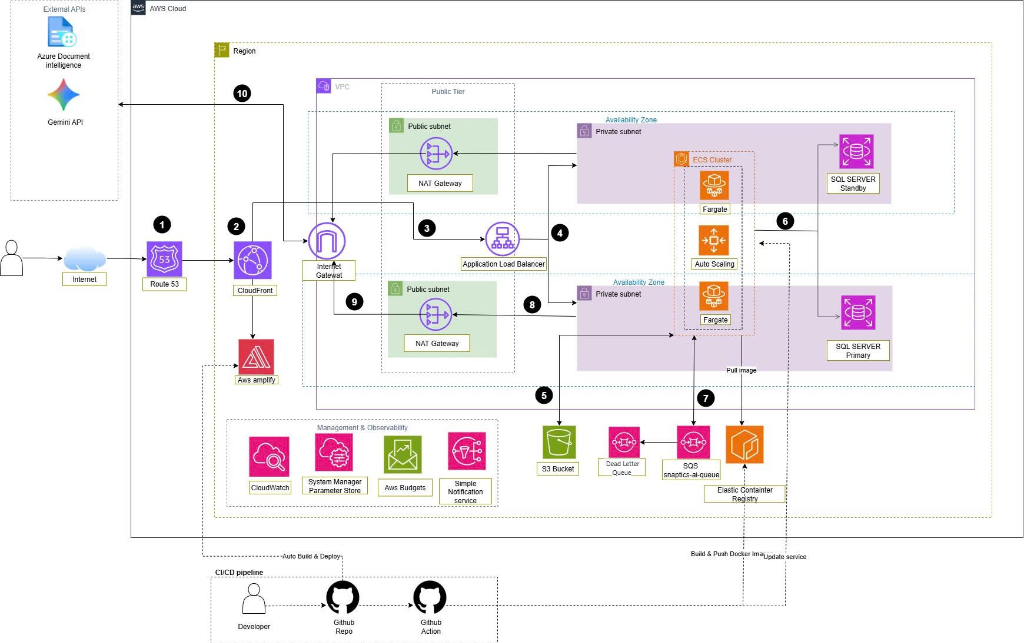
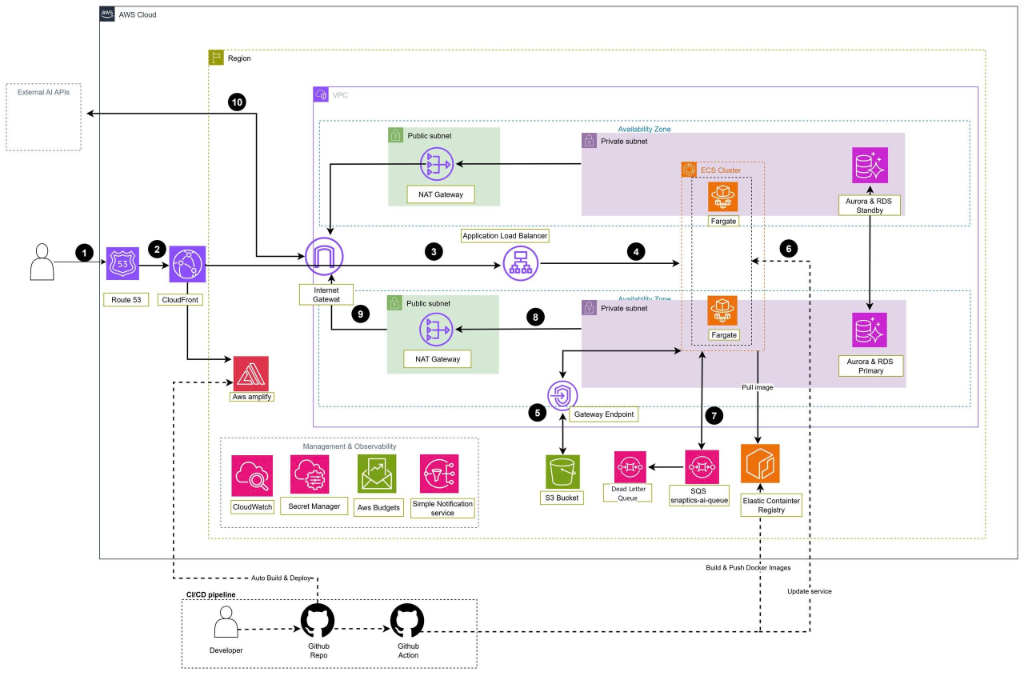
docs: update system architecture diagram, data flow, proposal and tech stack

diff --git a/content/2-Proposal/_index.md b/content/2-Proposal/_index.md
@@ -111,30 +111,28 @@ Snaptics utilizes an AWS Cloud-Native architecture combining a Single Page Appli
 | Component | Role in System |
 | :--- | :--- |
 | **Frontend** | Angular Single Page Application automatically built and deployed via AWS Amplify from GitHub. Distributed via Amazon CloudFront CDN. |
-| **DNS, CDN & Edge Protection** | Amazon Route 53 manages DNS; Amazon CloudFront acts as CDN and ingress point. AWS WAF is attached to CloudFront to inspect and filter web traffic before reaching ALB. |
-| **Networking** | Amazon VPC spanning 02 Availability Zones. Each AZ contains Public Subnets and Private Subnets. ALB and NAT Gateways reside in Public Subnets; ECS Fargate and RDS reside in Private Subnets. |
-| **Backend API** | .NET API containerized with Docker, stored on Amazon ECR, and deployed as ECS Services running Fargate Tasks in Private Subnets behind ALB. |
-| **AI Worker** | ECS Fargate Worker dequeuing messages from SQS, reading images from S3 via Gateway Endpoint, invoking Azure Document Intelligence and Gemini API via NAT Gateway, and writing results to RDS. |
-| **Database** | Amazon RDS for SQL Server managing accounts, transactions, wallets, budgets, notifications, chat history, tickets, and audit logs. Target architecture uses Multi-AZ Primary/Standby. |
-| **Receipt Storage** | Amazon S3 stores raw receipt images and processed files. Backend/Worker access S3 internally via S3 Gateway Endpoint, reducing NAT Gateway traffic. |
-| **Asynchronous Queue** | Amazon SQS buffers OCR/AI tasks; Dead Letter Queue (DLQ) captures failed messages exceeding retry limits for inspection and replay. |
-| **Scheduled Jobs** | Hangfire runner embedded in .NET Backend to schedule, trigger, and monitor periodic system background tasks. |
-| **Notifications** | In-app notifications stored in SQL Server. Amazon SNS supports operational alerts, system health notifications, and push channels. |
-| **Secrets & Security** | AWS Secrets Manager stores RDS connection strings, Gemini API keys, Azure Document Intelligence credentials, and JWT secrets. IAM Roles and Security Groups enforce least privilege. |
-| **Monitoring** | Amazon CloudWatch aggregates logs and metrics for ALB, ECS, RDS, SQS/DLQ, and application tasks; AWS Budgets monitors cost thresholds. |
-| **CI/CD Pipeline** | AWS Amplify auto-deploys Frontend. GitHub Actions builds Docker images, pushes to Amazon ECR, and updates ECS Services. |
+| **DNS, CDN & Edge Protection** | Amazon Route 53 manages DNS resolution; Amazon CloudFront acts as CDN and global entry point, forwarding API requests through the Internet Gateway to ALB. |
+| **Networking (VPC)** | Amazon VPC spanning 02 Availability Zones (AZs). Each AZ contains Public Subnets and Private Subnets. ALB and NAT Gateways reside in Public Subnets; ECS Fargate and Aurora & RDS databases reside in Private Subnets. |
+| **Backend API (ECS Cluster)** | .NET API containerized with Docker, stored on Amazon ECR, and deployed as ECS Services running Fargate Tasks across Private Subnets behind ALB. |
+| **AI Worker** | ECS Fargate Worker dequeuing messages from SQS `snaptics-ai-queue`, reading images from S3 via Gateway Endpoint, invoking External AI APIs (Azure Document Intelligence and Gemini API) via NAT Gateway, and writing results to Aurora & RDS. |
+| **Database** | **Aurora & RDS (Primary / Standby)** managing accounts, transactions, wallets, budgets, notifications, chat history, and support tickets. Configured with Multi-AZ replication between Primary (AZ 2) and Standby (AZ 1). |
+| **Receipt Storage** | Amazon S3 stores raw receipt images and processed files. Backend/Worker access S3 internally via **S3 Gateway Endpoint** within the VPC, reducing NAT Gateway transfer costs. |
+| **Asynchronous Queue** | **Amazon SQS (`snaptics-ai-queue`)** buffers OCR/AI tasks; **Dead Letter Queue (DLQ)** captures failed messages exceeding retry limits for inspection and replay. |
+| **Secrets & Security** | **AWS Secrets Manager** encrypts and stores RDS connection strings, Gemini API keys, Azure credentials, and JWT secrets. IAM Roles and Security Groups enforce least privilege. |
+| **Management & Observability** | **Amazon CloudWatch** (logs/metrics/alarms), **AWS Secrets Manager** (sensitive config), **AWS Budgets** (cost tracking), and **Simple Notification Service (SNS)** (operational alerts). |
+| **CI/CD Pipeline** | GitHub Actions triggers 3 automated paths: (1) **Auto Build & Deploy** Frontend to AWS Amplify, (2) **Build & Push Docker Images** to Elastic Container Registry (ECR), and (3) **Update Service** on ECS Cluster for Fargate to pull new images (**Pull Image**). |
 
 #### 4.3. Main Workflow Steps (Matching Architecture Diagram)
 1. User accesses the Snaptics domain; **Amazon Route 53** (1) resolves DNS to **Amazon CloudFront** (2).
-2. **CloudFront** serves the Frontend SPA hosted on **AWS Amplify**. **AWS WAF** attached to CloudFront inspects and blocks malicious traffic before API requests enter the network.
-3. API requests pass through the **Internet Gateway** to the **Application Load Balancer (ALB)** (3) in Public Subnets.
-4. **ALB** forwards API traffic to **Backend API Tasks** (4) running on **Amazon ECS Fargate** across Private Subnets in two Availability Zones.
-5. Backend reads/writes receipt images to **Amazon S3** via **S3 Gateway Endpoint** (5), avoiding public Internet data transfer.
-6. Backend and AI Worker query/update relational business data on **Amazon RDS for SQL Server** (6); target architecture syncs Primary to Standby Multi-AZ.
-7. Backend pushes OCR/AI jobs to **Amazon SQS** (`snaptics-ai-queue`) (7); AI Worker processes messages, sending failed tasks to **Dead Letter Queue (DLQ)**. ECS pulls Docker images from **Amazon ECR**.
-8. Fargate Workers in Private Subnets dispatch outbound processing calls (8).
+2. **CloudFront** serves the Frontend SPA hosted on **AWS Amplify** and forwards API requests through the **Internet Gateway**.
+3. API requests pass through the Internet Gateway to the **Application Load Balancer (ALB)** (3) in Public Subnets.
+4. **ALB** forwards API traffic to **ECS Fargate Tasks** (4) running in Private Subnets across 02 Availability Zones.
+5. Fargate Tasks read/write receipt images directly to **Amazon S3** via **S3 Gateway Endpoint** (5) in the VPC, bypassing the public Internet.
+6. Fargate Tasks read/write relational business data on **Aurora & RDS Primary / Standby** (6) synchronized across Multi-AZ.
+7. Fargate Tasks push OCR/AI jobs to **Amazon SQS (`snaptics-ai-queue`)** (7); AI Worker processes messages, sending failed tasks to **Dead Letter Queue (DLQ)**. ECS Fargate Tasks pull Docker images from **Amazon ECR**.
+8. Fargate Workers in Private Subnets dispatch outbound requests (8) to external AI services.
 9. Outbound traffic routes through **NAT Gateways** (9) in Public Subnets connected to the Internet Gateway.
-10. AI Worker invokes **Azure Document Intelligence** and **Gemini API** (10) via HTTPS; Gemini API keys and credentials are pulled securely from **AWS Secrets Manager**.
+10. Outbound traffic reaches **External AI APIs** (10) (Azure Document Intelligence & Google Gemini API); credentials are pulled securely from **AWS Secrets Manager**.
 
 #### 4.4. Overall Architecture Diagram
 

diff --git a/content/2-Proposal/_index.vi.md b/content/2-Proposal/_index.vi.md
@@ -111,18 +111,16 @@ Snaptics sử dụng kiến trúc Cloud-Native trên AWS, kết hợp Web SPA, C
 | Thành phần | Vai trò trong hệ thống |
 | :--- | :--- |
 | **Frontend** | Angular Single Page Application được build và deploy tự động qua AWS Amplify từ GitHub Repository. CloudFront phân phối nội dung Frontend đến người dùng. |
-| **DNS, CDN và bảo vệ biên** | Amazon Route 53 quản lý tên miền; Amazon CloudFront làm CDN và điểm vào chung. AWS WAF được gắn với CloudFront để lọc request bất thường trước khi chuyển request API đến ALB. |
-| **Mạng** | Amazon VPC trải trên 02 Availability Zone. Mỗi AZ có Public Subnet và Private Subnet; ALB và NAT Gateway thuộc tầng công khai, còn ECS Fargate và RDS thuộc tầng riêng. Internet Gateway kết nối VPC với Internet. |
-| **Backend API** | .NET API được đóng gói Docker, lưu trên Amazon ECR và triển khai thành ECS Service chạy Fargate Task trong Private Subnet, nhận lưu lượng từ Application Load Balancer. |
-| **AI Worker** | Worker chạy trên ECS Fargate, nhận message từ SQS, đọc ảnh từ S3, gọi Azure Document Intelligence và Gemini API qua NAT Gateway, sau đó lưu kết quả vào RDS. |
-| **Database** | Amazon RDS for SQL Server lưu người dùng, giao dịch, ví, ngân sách, thông báo, chat, ticket và trạng thái nghiệp vụ. Kiến trúc mục tiêu dùng Multi-AZ Primary/Standby; môi trường demo có thể dùng Single-AZ. |
-| **Lưu trữ hóa đơn** | Amazon S3 lưu ảnh hóa đơn và tệp xử lý; database chỉ lưu metadata và đường dẫn. Backend/Worker truy cập S3 qua S3 Gateway Endpoint để hạn chế lưu lượng đi qua NAT Gateway. |
-| **Hàng đợi** | Amazon SQS tiếp nhận tác vụ OCR/AI; AI Worker xử lý message; Dead Letter Queue giữ message thất bại vượt quá số lần retry để phục vụ kiểm tra và chạy lại. |
-| **Tác vụ định kỳ** | Hangfire chạy cùng Backend .NET để lập lịch, kích hoạt và theo dõi các tác vụ nền. Hangfire quản lý lịch chạy và không thay thế SQS. |
-| **Thông báo** | Thông báo trong ứng dụng được lưu trong SQL Server. Amazon SNS hỗ trợ cảnh báo vận hành, trạng thái hệ thống hoặc tích hợp kênh thông báo khi cần. |
-| **Cấu hình và bảo mật** | AWS Secrets Manager lưu RDS connection string, Gemini API key, Azure Document Intelligence key/endpoint và JWT secret. ECS Task Role, IAM và Security Group giới hạn quyền truy cập. |
-| **Giám sát** | Amazon CloudWatch thu thập log và metric của ALB, ECS, RDS, SQS/DLQ và ứng dụng; AWS Budgets cảnh báo khi chi phí đạt ngưỡng. |
-| **CI/CD** | AWS Amplify tự động build/deploy Frontend. GitHub Actions build Docker Image, đẩy lên Amazon ECR và cập nhật ECS Service; Fargate Task kéo image mới từ ECR khi triển khai. |
+| **DNS, CDN và bảo vệ biên** | Amazon Route 53 quản lý tên miền và phân giải DNS; Amazon CloudFront làm CDN và điểm vào chung. CloudFront chuyển tiếp các request API qua Internet Gateway đến ALB. |
+| **Mạng (VPC)** | Amazon VPC trải trên 02 Availability Zone (AZ). Mỗi AZ có Public Subnet và Private Subnet; ALB và NAT Gateway thuộc tầng Public Subnet, còn ECS Fargate và Database thuộc tầng Private Subnet. |
+| **Backend API (ECS Cluster)** | .NET API được đóng gói Docker, lưu trên Amazon ECR và triển khai thành ECS Service chạy Fargate Task trong Private Subnet của hai Availability Zone, nhận lưu lượng từ Application Load Balancer. |
+| **AI Worker** | ECS Fargate Worker nhận message từ SQS `snaptics-ai-queue`, đọc ảnh từ S3 qua Gateway Endpoint, gọi External AI APIs (Azure Document Intelligence và Gemini API) qua NAT Gateway, sau đó lưu kết quả vào Aurora & RDS. |
+| **Cơ sở dữ liệu (Database)** | **Aurora & RDS (Primary / Standby)** lưu dữ liệu người dùng, giao dịch, ví, ngân sách, thông báo, chat và ticket. Dữ liệu được đồng bộ liên tục giữa Primary (AZ 2) và Standby (AZ 1) trên mạng Private. |
+| **Lưu trữ hóa đơn (Storage)** | Amazon S3 lưu ảnh hóa đơn và tệp xử lý; database chỉ lưu metadata và đường dẫn. Fargate Task truy cập S3 qua **S3 Gateway Endpoint** trực tiếp trong VPC để tối ưu chi phí và bảo mật. |
+| **Hàng đợi (Messaging)** | **Amazon SQS (`snaptics-ai-queue`)** tiếp nhận các tác vụ OCR/AI bất đồng bộ; **Dead Letter Queue (DLQ)** tiếp nhận và giữ lại các message xử lý thất bại vượt quá số lần retry. |
+| **Cấu hình & Bảo mật** | **AWS Secrets Manager** lưu trữ mã hóa RDS connection string, Gemini API key, Azure credentials và JWT secrets. IAM Roles và Security Groups kiểm soát quyền tối thiểu. |
+| **Giám sát & Quản lý** | **Amazon CloudWatch** (thu thập log/metric), **AWS Secrets Manager** (quản lý secret), **AWS Budgets** (cảnh báo ngân sách) và **Simple Notification Service (SNS)** (phát thông báo sự cố/vận hành). |
+| **CI/CD Pipeline** | GitHub Actions thực hiện 3 luồng: (1) **Auto Build & Deploy** Frontend lên AWS Amplify, (2) **Build & Push Docker Images** lên Elastic Container Registry (ECR), và (3) **Update Service** lên ECS Cluster để Fargate kéo image mới (**Pull Image**). |
 
 #### 4.3. Luồng hoạt động chính theo sơ đồ kiến trúc
 1. Người dùng truy cập tên miền Snaptics; **Amazon Route 53** (1) phân giải tên miền đến **Amazon CloudFront** (2).

diff --git a/content/5-Workshop/5.1-architecture/5.1.1-system-architecture/_index.vi.md b/content/5-Workshop/5.1-architecture/5.1.1-system-architecture/_index.vi.md
@@ -9,14 +9,36 @@ pre: " <b> 5.1.1. </b> "
 
 <img src="/images/2-Proposal/snaptics_architecture.png" alt="Snaptics AWS Architecture" style="border-radius: 8px; width: 100%; height: auto; box-shadow: 0 4px 8px rgba(0,0,0,0.1);" />
 
-Thiết kế mạng Multi-Stack của Snaptics tuân thủ nghiêm ngặt nguyên tắc bảo mật: cô lập hoàn toàn tầng Public và Private, đồng thời kiểm soát luồng truy cập qua Application Load Balancer và các Security Groups đặc thù.
+Thiết kế mạng Multi-Stack của Snaptics tuân thủ nghiêm ngặt nguyên tắc bảo mật Cloud-Native: cô lập hoàn toàn tầng Public Subnet và Private Subnet trên 2 Availability Zone (AZ), điều phối lưu lượng qua Amazon Route 53, CloudFront, Application Load Balancer (ALB) và tự động hóa CI/CD qua GitHub Actions.
 
 
 
-### Phân tích Luồng Hoạt động (Data Flow)
+### Phân tích Luồng Hoạt động (Data Flow từ 1 đến 10)
 
-1. **User Request:** Người dùng gọi API hoặc tải hóa đơn lên thông qua Mobile App. Request đi qua `Internet Gateway` và được phân giải bởi `Application Load Balancer (ALB)`.
-2. **Compute Routing:** ALB kiểm tra chứng chỉ SSL và định tuyến request vào các Container .NET đang chạy trên `ECS Fargate` nằm an toàn trong mạng Private.
-3. **Data Persistance:** ECS xử lý logic kinh doanh, lưu trữ file vật lý lên `S3` và lưu trữ giao dịch tài chính (Transactions) vào `RDS SQL Server`.
-4. **Asynchronous Processing:** Nếu có tác vụ tốn thời gian (ví dụ: tạo báo cáo tài chính tháng), ECS đẩy một message vào `SQS`. `Hangfire Worker` (chạy song song trong cùng container hoặc cluster) sẽ bốc message này ra xử lý ngầm.
-5. **AI Integration:** Khi cần đọc hóa đơn, ECS gọi qua `NAT Gateway` ra ngoài Internet để giao tiếp với `Azure Document Intelligence` hoặc `Gemini API`. Thông tin trả về được trích xuất và lưu ngược lại vào RDS.
+1. **[1] User Request:** Người dùng truy cập hệ thống; **Amazon Route 53** phân giải tên miền chỉ định đến điểm phân phối **Amazon CloudFront**.
+2. **[2] Content Delivery & Edge Routing:** CloudFront điều phối lưu lượng giao diện người dùng (Frontend Web) được lưu trữ trên **AWS Amplify**, đồng thời chuyển hướng các request API qua **Internet Gateway**.
+3. **[3] Ingress Load Balancing:** Request API đi qua Internet Gateway đến **Application Load Balancer (ALB)** đặt trong Public Subnet.
+4. **[4] Compute Dispatching:** ALB định tuyến request API đến các container backend thuộc **ECS Cluster (Fargate Tasks)** đang vận hành an toàn trong Private Subnet trải rộng trên 02 Availability Zone.
+5. **[5] Object Storage Access:** Các Fargate Task đọc/ghi ảnh hóa đơn và tệp tĩnh trực tiếp với **Amazon S3 Bucket** thông qua **Gateway Endpoint** trong VPC, không đi qua Internet để tối ưu bảo mật và chi phí.
+6. **[6] Database Persistence:** Fargate Task thực hiện xử lý dữ liệu nghiệp vụ và lưu trữ dữ liệu vào cơ sở dữ liệu **Aurora & RDS (Primary / Standby)** được cấu hình đồng bộ Multi-AZ.
+7. **[7] Asynchronous Queueing & DLQ:** Các tác vụ nặng (như bóc tách OCR/AI) được đẩy vào **Amazon SQS (`snaptics-ai-queue`)**. Các Worker Task trên ECS bốc message ra xử lý ngầm. Nếu gặp sự cố vượt số lần retry, message được chuyển sang **Dead Letter Queue (DLQ)** để kiểm tra và xử lý lại.
+8. **[8] Outbound Egress:** Khi cần gọi API bên ngoài, Fargate Task gửi request truy cập ra ngoài thông qua **NAT Gateway** trong Public Subnet.
+9. **[9] Gateway Egress:** Traffic từ NAT Gateway đi qua **Internet Gateway** để kết nối ra mạng Internet công cộng.
+10. **[10] External AI Integration:** Request được gửi đến các **External AI APIs** (như Azure Document Intelligence bóc tách hóa đơn và Google Gemini API cho AI Insights). Kết quả trả về được lưu trữ ngược lại vào Aurora & RDS.
+
+---
+
+### Các Thành Phần Phụ Trợ & CI/CD
+
+* **Management & Observability:**
+  * **Amazon CloudWatch:** Thu thập log, metric và thiết lập cảnh báo hoạt động của hệ thống.
+  * **AWS Secrets Manager:** Lưu trữ và cung cấp an toàn các thông tin nhạy cảm (API Key, JWT Secret, Connection String).
+  * **AWS Budgets:** Theo dõi và gửi cảnh báo khi chi phí hạ tầng chạm ngưỡng.
+  * **Amazon SNS (Simple Notification Service):** Gửi thông báo cảnh báo vận hành và sự cố hệ thống.
+
+* **CI/CD Pipeline (GitHub Actions):**
+  * Developer push code lên **GitHub Repo**, kích hoạt **GitHub Actions**.
+  * **Auto Build & Deploy:** Tự động build và triển khai Frontend lên **AWS Amplify**.
+  * **Build & Push Docker Images:** Đóng gói Docker Container và đẩy image lên **Elastic Container Registry (ECR)**.
+  * **Update Service:** Cập nhật service trên **ECS Cluster**, các Fargate Task tự động kéo image mới nhất từ ECR (**Pull Image**).
+

diff --git a/content/5-Workshop/5.1-architecture/5.1.1-system-architecture/_index.md b/content/5-Workshop/5.1-architecture/5.1.1-system-architecture/_index.md
@@ -9,14 +9,36 @@ pre: " <b> 5.1.1. </b> "
 
 <img src="/images/2-Proposal/snaptics_architecture.png" alt="Snaptics AWS Architecture" style="border-radius: 8px; width: 100%; height: auto; box-shadow: 0 4px 8px rgba(0,0,0,0.1);" />
 
-The Snaptics Multi-Stack network design strictly adheres to security principles: isolating Public and Private tiers, and controlling traffic flow through an Application Load Balancer and specific Security Groups.
+The Snaptics Multi-Stack network design strictly adheres to Cloud-Native security principles: completely isolating Public Subnets and Private Subnets across 2 Availability Zones (AZs), orchestrating traffic via Amazon Route 53, CloudFront, Application Load Balancer (ALB), and automating CI/CD via GitHub Actions.
 
 
 
-### Data Flow Analysis
+### Data Flow Analysis (Steps 1 to 10)
 
-1. **User Request:** Users call the API or upload invoices via the Mobile App. Requests pass through the `Internet Gateway` and are resolved by the `Application Load Balancer (ALB)`.
-2. **Compute Routing:** ALB checks SSL certificates and routes requests to the .NET Containers running on `ECS Fargate` safely located in the Private network.
-3. **Data Persistence:** ECS processes business logic, saves physical files to `S3`, and stores financial transactions to `RDS SQL Server`.
-4. **Asynchronous Processing:** For time-consuming tasks (e.g., generating monthly financial reports), ECS pushes a message to `SQS`. The `Hangfire Worker` (running concurrently in the same container or cluster) picks up this message to process in the background.
-5. **AI Integration:** When invoice reading is required, ECS calls out through the `NAT Gateway` to the Internet to communicate with `Azure Document Intelligence` or `Gemini API`. Extracted data is saved back to RDS.
+1. **[1] User Request:** Users access the system; **Amazon Route 53** resolves the domain to the **Amazon CloudFront** distribution endpoint.
+2. **[2] Content Delivery & Edge Routing:** CloudFront serves the user interface (Frontend Web) hosted on **AWS Amplify**, while routing API requests through the **Internet Gateway**.
+3. **[3] Ingress Load Balancing:** API traffic passes through the Internet Gateway to the **Application Load Balancer (ALB)** located in the Public Subnets.
+4. **[4] Compute Dispatching:** ALB routes API requests to containerized backend tasks running on **ECS Cluster (Fargate Tasks)** safely isolated inside Private Subnets across 02 Availability Zones.
+5. **[5] Object Storage Access:** Fargate Tasks read/write receipt images and static files directly to the **Amazon S3 Bucket** via a **Gateway Endpoint** within the VPC, bypassing the public Internet for optimal security and cost savings.
+6. **[6] Database Persistence:** Fargate Tasks process business logic and persist data to **Aurora & RDS (Primary / Standby)** configured with Multi-AZ replication.
+7. **[7] Asynchronous Queueing & DLQ:** Heavy processing tasks (such as OCR/AI extraction) are pushed to **Amazon SQS (`snaptics-ai-queue`)**. ECS Worker Tasks dequeue and process these jobs asynchronously. If a job fails beyond retry limits, it is routed to the **Dead Letter Queue (DLQ)** for inspection and reprocessing.
+8. **[8] Outbound Egress:** When external API access is required, Fargate Tasks dispatch outbound requests via **NAT Gateways** in the Public Subnets.
+9. **[9] Gateway Egress:** Traffic from NAT Gateways travels through the **Internet Gateway** out to the public Internet.
+10. **[10] External AI Integration:** Requests reach **External AI APIs** (such as Azure Document Intelligence for invoice OCR and Google Gemini API for AI Insights). Extracted results are written back to Aurora & RDS.
+
+---
+
+### Auxiliary Components & CI/CD
+
+* **Management & Observability:**
+  * **Amazon CloudWatch:** Collects logs, metrics, and manages alarms for system operation.
+  * **AWS Secrets Manager:** Securely stores and retrieves sensitive configurations (API Keys, JWT Secrets, Connection Strings).
+  * **AWS Budgets:** Monitors infrastructure expenses and sends cost threshold alerts.
+  * **Amazon SNS (Simple Notification Service):** Dispatches operational alerts and event notifications.
+
+* **CI/CD Pipeline (GitHub Actions):**
+  * Developers push code to the **GitHub Repo**, triggering **GitHub Actions**.
+  * **Auto Build & Deploy:** Automatically builds and deploys Frontend assets to **AWS Amplify**.
+  * **Build & Push Docker Images:** Builds Docker containers and pushes images to **Elastic Container Registry (ECR)**.
+  * **Update Service:** Updates services on **ECS Cluster**, prompting Fargate Tasks to pull the latest image from ECR (**Pull Image**).
+

diff --git a/content/5-Workshop/5.1-architecture/5.1.2-tech-stack/_index.vi.md b/content/5-Workshop/5.1-architecture/5.1.2-tech-stack/_index.vi.md
@@ -1,4 +1,4 @@
----
+---
 title: "Tech Stack & AWS Services"
 date: 2024-01-01
 weight: 2
@@ -18,15 +18,17 @@ pre: " <b> 5.1.2. </b> "
 
 ### Lớp Cơ sở Hạ tầng (AWS Infrastructure)
 
-- **Amazon ECS Fargate:** Đóng gói toàn bộ ứng dụng .NET bên trên thành 1 container (Docker). Fargate giúp chạy container này mà không cần tốn công cấu hình hay bảo trì máy chủ EC2 gốc. Tự động mở rộng (Scale out) khi lượng request tăng đột biến.
-- **Amazon RDS (SQL Server):** Dịch vụ Database được quản lý hoàn toàn. Hỗ trợ tự động sao lưu (Auto-backup), patch lỗi bảo mật và Multi-AZ để đảm bảo chống lỗi phần cứng.
-- **Amazon S3 (Simple Storage Service):** Kho lưu trữ Object Storage giá rẻ và bền bỉ vô tận, dùng để chứa mọi file ảnh, PDF biên lai của người dùng trước khi gửi đi phân tích OCR.
+- **Amazon ECS Fargate:** Đóng gói ứng dụng .NET Backend và AI Worker thành các Container (Docker) chạy trên ECS Cluster. Fargate tự động vận hành container trong các Private Subnet trải rộng trên 02 Availability Zone mà không cần quản lý máy chủ EC2.
+- **Amazon Aurora & RDS (Primary / Standby):** Dịch vụ Cơ sở dữ liệu quan hệ hoàn toàn tự động. Hỗ trợ cơ chế Multi-AZ (Primary ở AZ 2 và Standby ở AZ 1) với tính năng nhân bản liên tục, tự động sao lưu và khôi phục khi có sự cố.
+- **Amazon S3 (Simple Storage Service):** Kho lưu trữ Object Storage dùng chứa ảnh hóa đơn và tệp dữ liệu. Kết nối với ECS qua **S3 Gateway Endpoint** trực tiếp trong VPC nhằm tối ưu hóa chi phí đường truyền và tăng cường bảo mật.
+- **AWS Amplify:** Nền tảng hosting và tự động hóa build/deploy Frontend SPA từ GitHub Repo.
+- **Amazon CloudFront & Route 53:** Route 53 quản lý tên miền; CloudFront đóng vai trò CDN điều phối lưu lượng đến Frontend Amplify và chuyển tiếp API Request qua Internet Gateway đến ALB.
 
 ### Lớp Điều phối & Tích hợp (Messaging & Integration)
 
-- **Amazon SNS (Simple Notification Service):** Chủ yếu dùng để bắn các tín hiệu cảnh báo khẩn cấp hoặc gửi luồng event cho nhiều subcriber cùng lúc.
-- **Amazon SQS (Simple Queue Service):** Hàng đợi message. Đóng vai trò làm bộ đệm (Buffer) khi lượng hóa đơn tải lên quá lớn, giúp hệ thống không bị nghẽn (Decoupling).
-- **AWS Parameter Store:** Nơi lưu trữ an toàn các tham số cấu hình nhạy cảm. Ứng dụng .NET sẽ tự động load cấu hình từ đây lúc startup để tránh bị lộ Secret Key ra mã nguồn.
+- **Amazon SQS (`snaptics-ai-queue`) & DLQ:** Hàng đợi thông điệp đóng vai trò làm bộ đệm (Buffer) xử lý tác vụ OCR/AI bất đồng bộ, kết hợp Dead Letter Queue (DLQ) giữ lại các message bị lỗi để kiểm tra lại.
+- **Amazon SNS (Simple Notification Service):** Dịch vụ phát thông báo cảnh báo sự cố vận hành và trạng thái hệ thống.
+- **AWS Secrets Manager:** Quản lý và cung cấp an toàn các thông tin cấu hình nhạy cảm (RDS Connection String, Gemini API Key, Azure Credentials, JWT Secret) cho Fargate Tasks.
 
 ### Lớp Trí tuệ Nhân tạo (AI & OCR)
 

diff --git a/content/5-Workshop/5.1-architecture/5.1.2-tech-stack/_index.md b/content/5-Workshop/5.1-architecture/5.1.2-tech-stack/_index.md
@@ -1,4 +1,4 @@
----
+---
 title: "Tech Stack & AWS Services"
 date: 2024-01-01
 weight: 2
@@ -18,15 +18,17 @@ To operate a smooth financial system like Snaptics, we use a hybrid ecosystem co
 
 ### AWS Infrastructure
 
-- **Amazon ECS Fargate:** Packages the above .NET application into a container (Docker). Fargate helps run this container without the effort of configuring or maintaining underlying EC2 servers. Scales out automatically during traffic spikes.
-- **Amazon RDS (SQL Server):** Fully managed Database service. Supports auto-backup, security patching, and Multi-AZ to ensure hardware fault tolerance.
-- **Amazon S3 (Simple Storage Service):** Cheap and infinitely durable Object Storage, used to hold all user image files and PDF receipts before sending them for OCR analysis.
+- **Amazon ECS Fargate:** Packages the .NET Backend API and AI Worker into Docker containers running on ECS Cluster. Fargate automatically runs containers across Private Subnets in 02 Availability Zones without managing EC2 instances.
+- **Amazon Aurora & RDS (Primary / Standby):** Fully managed relational database service. Supports Multi-AZ replication (Primary in AZ 2, Standby in AZ 1), automated backups, and hardware fault tolerance.
+- **Amazon S3 (Simple Storage Service):** Object storage for receipt images and data files. Connects directly via **S3 Gateway Endpoint** within the VPC to optimize bandwidth costs and security.
+- **AWS Amplify:** Hosting platform and automated build/deploy pipeline for the Frontend SPA from the GitHub Repository.
+- **Amazon CloudFront & Route 53:** Route 53 manages DNS; CloudFront serves as CDN delivering Frontend assets and routing API Requests through the Internet Gateway to ALB.
 
 ### Messaging & Integration
 
-- **Amazon SNS (Simple Notification Service):** Primarily used to fire emergency alerts or stream events to multiple subscribers simultaneously.
-- **Amazon SQS (Simple Queue Service):** Message queue. Acts as a buffer when invoice upload volume is too high, preventing system bottlenecks (Decoupling).
-- **AWS Parameter Store:** A safe place to store sensitive configuration parameters. The .NET application will automatically load configs from here at startup to avoid exposing Secret Keys in the source code.
+- **Amazon SQS (`snaptics-ai-queue`) & DLQ:** Message queue buffering asynchronous OCR/AI tasks, paired with Dead Letter Queue (DLQ) to hold failed messages for inspection and replay.
+- **Amazon SNS (Simple Notification Service):** Dispatches operational alerts and system health notifications.
+- **AWS Secrets Manager:** Securely stores and injects sensitive configuration parameters (RDS Connection String, Gemini API Key, Azure Credentials, JWT Secret) into Fargate Tasks.
 
 ### Artificial Intelligence (AI & OCR)
 
